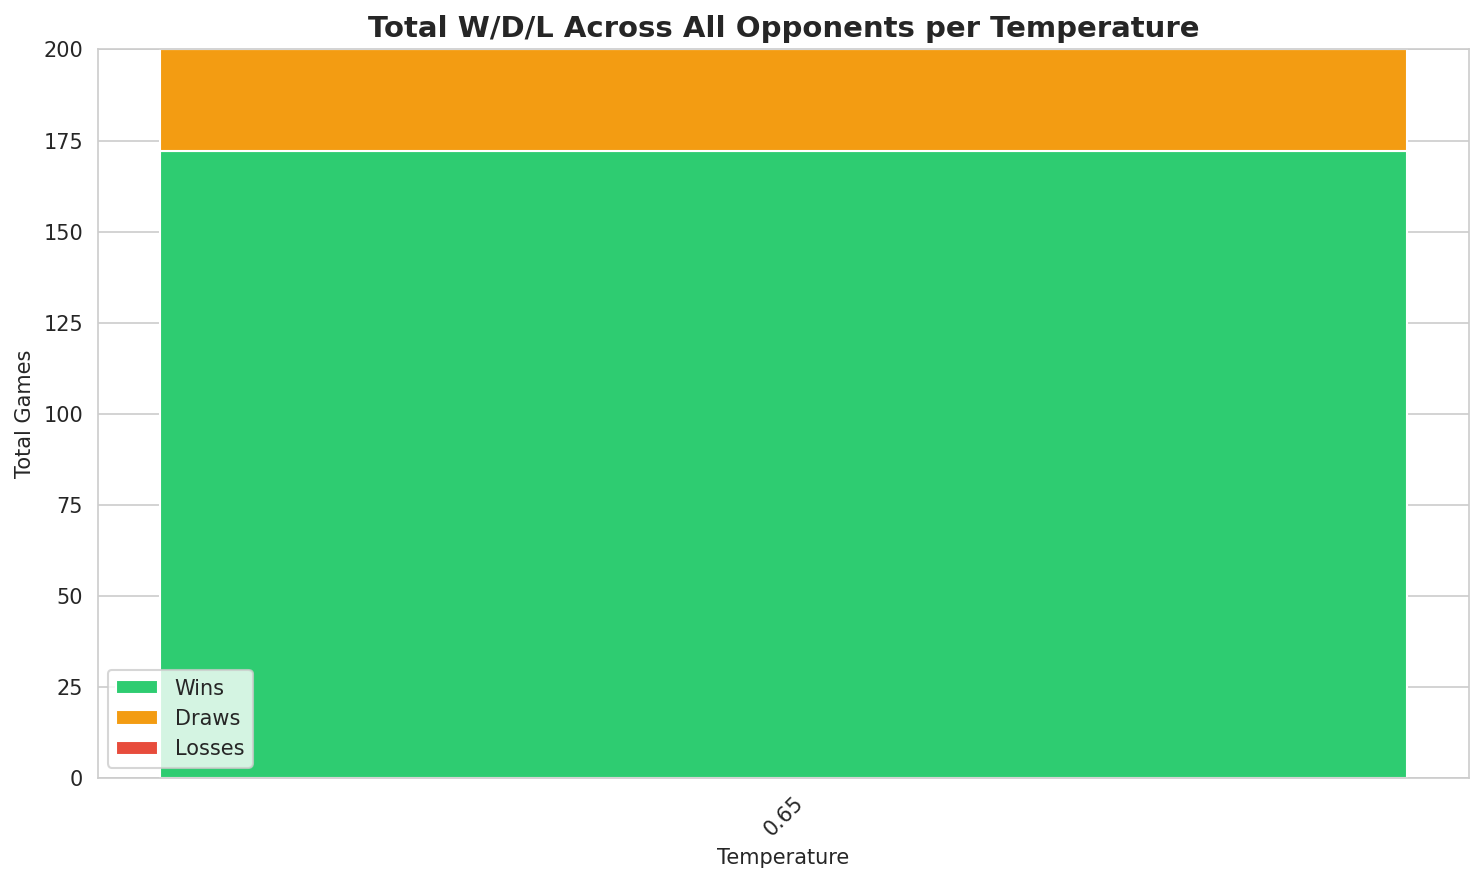
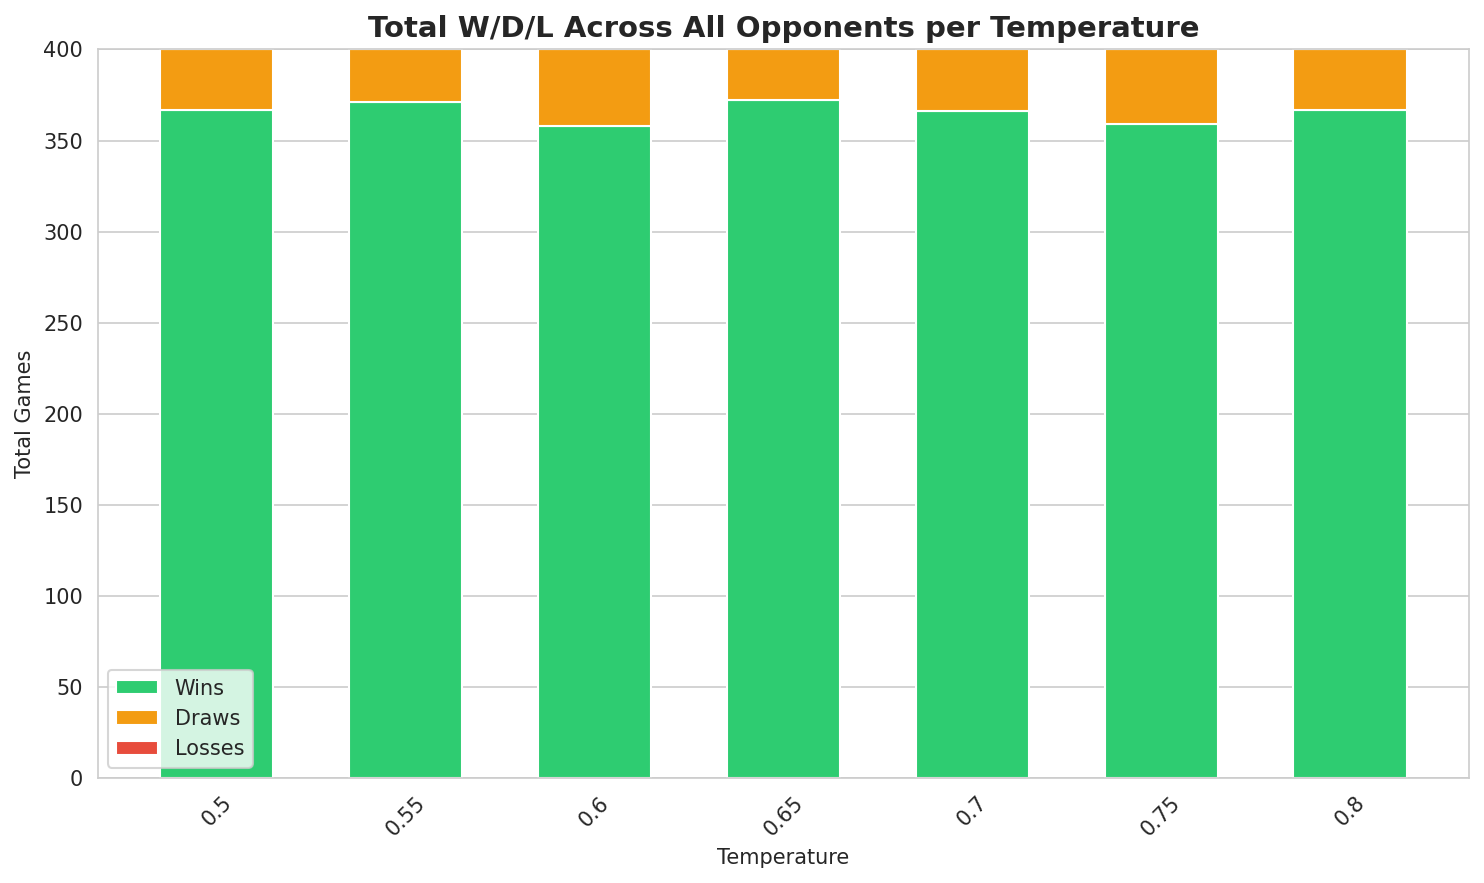
final commit

diff --git a/player.py b/player.py
@@ -22,10 +22,10 @@ from scripts.architecture import Transformer
 
 class TransformerPlayer(Player):
     def __init__(self,
-                 name:str,
+                 name:str = 'TransformerGodPlayer',
                  model_id:str="TransformerGodPlayer",
                  repo_id:str="LeoSavi/Chess-God-Transformer",
-                 temperature:float = 0.8): 
+                 temperature:float = 0.65): 
 
         super().__init__(name)
 
@@ -45,7 +45,7 @@ class TransformerPlayer(Player):
             with open(config_path, 'r') as file:
                 settings = yaml.safe_load(file)
 
-        actual_model_name = "TransformerGodPlayer.pth" 
+        actual_model_name = f"{model_id}.pth" 
         weights_filename = f"{model_id}.pth"
 
         local_weights_option1 = os.path.join(current_dir, 'model', actual_model_name)
@@ -133,8 +133,11 @@ class TransformerPlayer(Player):
 
         # rise temperature and try to get an answer if illegal
         for n in range(4):
+
             temp = min(self.temperature + n*0.05, 0.85) # warm up
+
             predicted_move = self.generate_move(src_tensor,temp)
+
             try:
                 move = chess.Move.from_uci(predicted_move)
                 if move in board.legal_moves:

diff --git a/trainer.py b/trainer.py
@@ -368,9 +368,23 @@ def load_to_hf():
         commit_message="Add training curves chart"
     )
 
+    api.upload_file(
+        path_or_fileobj="charts/6_wdl_100pct.png",
+        path_in_repo="charts/6_wdl_100pct.png",
+        repo_id=REPO_ID,
+        commit_message="Add KDA chart"
+    )
+
+    api.upload_file(
+        path_or_fileobj="charts/temp_comparison_table.png",
+        path_in_repo="charts/temp_comparison_table.png",
+        repo_id=REPO_ID,
+        commit_message="Comparison Table"
+    )
+
 if __name__ == "__main__":
     print('base model training')
-    # train_base_model()
+    train_base_model()
     print('fine tuning')
-    # fine_tune_model()
+    fine_tune_model()
     load_to_hf()

diff --git a/tester.py b/tester.py
@@ -13,7 +13,7 @@ import os
 
 import concurrent.futures
 
-NUM_MATCHES = 10
+NUM_MATCHES = 100
 
 def run_single_match(match_id, player1, player2):
     """Function to run one game instance"""
@@ -31,7 +31,7 @@ if __name__ == "__main__":
         os.environ["RAPIDAPI_KEY"] = RAPID_API
 
     opponents = ['stockfish-weak', 'stockfish-mid', 'stockfish-strong', 'stockfish-gm']
-    temperatures = [0.5, 0.55, 0.6, 0.65, 0.7, 0.75, 0.8]
+    temperatures = [0.65,0.675]
     # Store results per temperature
     temp_results = {t: [] for t in temperatures}
 

diff --git a/README.md b/README.md
@@ -29,7 +29,7 @@ Initially I used Optuna for fine tuning the hyperparameters. I run 70 trials wit
 1. CrossEntropyLoss
 2. CrossEntropyLoss Gap between Training Set and Validation Set. This a way to minimize overfitting.
 
-**NOTE**: due to vram limitation of my GPU (rtx4060 laptop - 8gb) I manually set hyperparameters and made ad-hoc changes to the architecture.
+**NOTE**: due to vram limitation of my GPU, I manually set hyperparameters and made ad-hoc changes to the architecture.
 
 ```yml
 d_model: 256      
@@ -41,36 +41,56 @@ lr: 0.0003
 batch_size: 64
 ```
 
+I chose these parameters because they represent the best balance between model capacity and the VRAM constraints of an RTX 4060 laptop (8GB).
+
+- d_model: 256 - embedding dimension large enough to capture complex positional relationships in FEN notation without exceeding memory limits.
+- num_heads: 8 - follows the standard ratio of d_model / num_heads = 32 dimensions per head, as recommended in the original "Attention is All You Need" paper. Each head learns to attend to different aspects of the position simultaneously.
+- num_layers: 6 - upgraded from 5 layers in earlier experiments. The additional layer added ~1.84M parameters and improved validation loss by 11% (0.2644 -> 0.2352) at the cost of roughly 15% longer training time per epoch.
+- d_ff: 1024 - the feedforward dimension follows the standard 4*d_model ratio, providing sufficient non-linear capacity between attention layers.
+- dropout: 0.1 - light regularization. The train/validation gap remained consistently below 0.025 throughout training, confirming the model was not overfitting and did not require stronger regularization.
+- lr: 0.0003 - validated through Optuna search in earlier experiments. During finetuning we drop this parameter to 0.00003.
+- batch_size: 64 - chosen for VRAM stability. Although the actual batch size is 256 because of gradient Accumulation.
+
+The total parameter count is **11,086,884**.
+
 ## Training & Optimizations
 Given VRAM issues I tweaked the training and the architecture of the model as follow: 
 - Mixed Precision Training: Training uses torch.amp.autocast with GradScaler to perform forward passes in float16 while keeping optimizer states in float32. This roughly halves VRAM usage and speeds up training. The attention mask was adjusted from -1e9 to -1e4 to prevent float16 overflow during masked attention computation.
 - Gradient Clipping: torch.nn.utils.clip_grad_norm_(model.parameters(), max_norm=1.0) is applied after every backward pass to prevent exploding gradients, which is especially important when combined with Mixed Precision Training.
-- Gradient Accumulation: During fine-tuning, gradients are accumulated over 4 steps before each optimizer update, giving an effective batch size of 512 (batch_size=64x acc_steps=4) without requiring additional VRAM.
+- Gradient Accumulation: During fine-tuning, gradients are accumulated over 4 steps before each optimizer update, giving an effective batch size of 256 (batch_size=64* acc_steps=4) without requiring additional VRAM.
 - Cosine Annealing LR Scheduler: The learning rate decays from the initial value down to eta_min=0.00005 following a cosine curve over the full training run, allowing the model to make large updates early and smaller adjustments later.
 - Early Stopping: Training monitors validation loss with a patience of 3 epochs and a minimum improvement delta of 0.002. The best checkpoint is saved automatically, ensuring the final model reflects peak generalization rather than the last epoch.
-- Encoder layers 0–2 and decoder layers 0–2 were frozen during fine-tuning to preserve learned general chess representations
+- Encoder layers 0–2 and decoder layers 0–2 were frozen during fine-tuning to preserve learned general chess representations.
 
 ![Training Curves](charts/training_curves.png)
 
 ### Data 
 
-- Base training: ~2.3M positions combining the ssingh22/chess-evaluations tactics dataset and bonna46/Chess-FEN-and-NL-Format-30K-Dataset
-- Fine-tuning: ~1.2mln positions combining checkmate positions (eval ≥ 2000), high-quality Lichess puzzles filtered by popularity ≥ 90, NbPlays ≥ 3000, and rating 300–2200, plus a ~15% general data buffer to prevent forgetting (all data from bonna46 and self generated data)
+- Base training: ~2.3mln positions combining the `ssingh22/chess-evaluations` tactics dataset and `bonna46/Chess-FEN-and-NL-Format-30K-Dataset`
+- Fine-tuning: ~1.2mln positions combining checkmate positions (eval ≥ 2000), high-quality Lichess puzzles filtered by popularity ≥ 90, NbPlays ≥ 3000, and rating 300–2200, plus a ~15% general data buffer to prevent forgetting (all data from bonna46, self generated data, and tactics)
 
 ### Notes
-The default Temperature after running 100 matches vs every stockfish-model. Codes are in `tester.py`.
-![Winrate per opponent](charts/1_winrate_per_opponent.png)
+The default Temperature after running 100 matches vs every stockfish-model (weak,mid,strong,GM). I calculated win-rate as 1pt. for Win, 0.5 draw and -1 for a loss. Codes are in `tester.py`. I decided that 0.65 is the optimal default temperature for winrate consistency across different runs and opponents. Below the last run I tried.
+![Winrate per opponent](charts/temp_comparison_table.png)
+![KDA per temperature](charts/6_wdl_100pct.png)
+
 
 the model **TransformerGodPlayer.pth** is saved in model folder and uploaded in HuggingFace along with **opt-configs.yml**. 
 
-# Requirements
+## Requirements
 Libraries used are described in `requirements.txt`. If you want to install them in bulk you can run the following command once cd into the directory:
 ```bash 
 pip install -r requirements.txt
 ```
 
 ## How to Use
-The model automatically imports a ad-hoc `ChessTokenizer` and the `Transformer` class to load the `.pth` weights, first attemps to load those locally (since the GitHub repo is going to be cloned), otherwise import from HuggingFace.
+
+This model is ment to be used with the `TransformerPlayer` class in `player.py` after cloning the original repo.
+```bash
+git clone https://github.com/LeonSavi/chess_exam
+```
+
+For the purpose of the class tournment, the model automatically imports a ad-hoc `ChessTokenizer` and the `Transformer` class to load the `.pth` weights, first attemps to load those locally (since the GitHub repo is going to be cloned), otherwise import from HuggingFace.
 
 ```python
 from player import TransformerPlayer
@@ -81,7 +101,6 @@ fen = "rnbqkbnr/pppppppp/8/8/8/8/PPPPPPPP/RNBQKBNR w KQkq - 0 1"
 move = model.get_move(fen) 
 print(f"God-Transformer predicts: {move}")
 ```
-
 
 **Fallback**
 As a probabilistic model, the Transformer occasionally predicts illegal moves. particularly in unusual positions that differ from the training distribution. A python-chess validation layer is applied inside get_move() to catch these cases before they reach the game engine. The fallback strategy works in three stages:
@@ -96,4 +115,5 @@ As a probabilistic model, the Transformer occasionally predicts illegal moves. p
 - Mixed Precision: https://apxml.com/courses/foundations-transformers-architecture/chapter-7-implementation-details-optimization/mixed-precision-training
 - Freezing Layers: https://medium.com/we-talk-data/guide-to-freezing-layers-in-pytorch-best-practices-and-practical-examples-8e644e7a9598
 - Gradient Clipping: https://www.geeksforgeeks.org/deep-learning/understanding-gradient-clipping/
+- Our lectures
 
